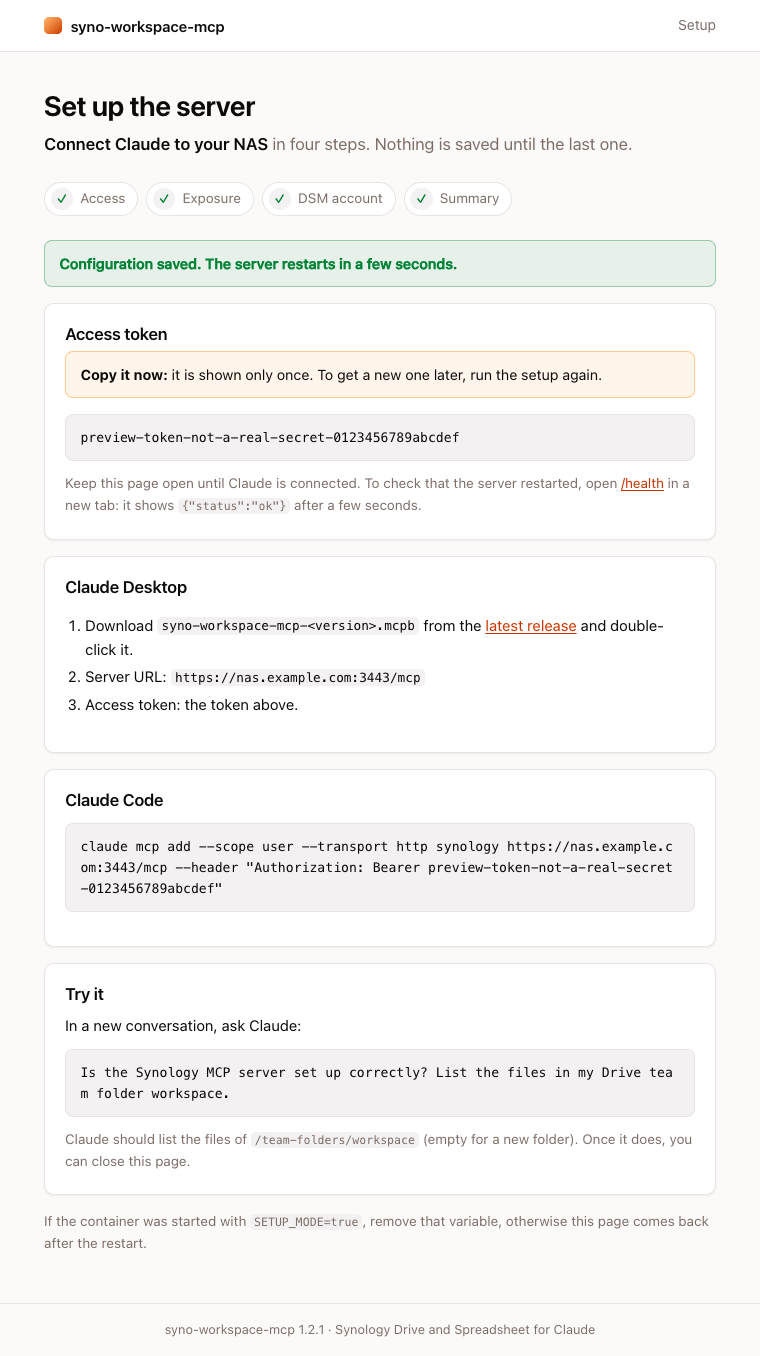
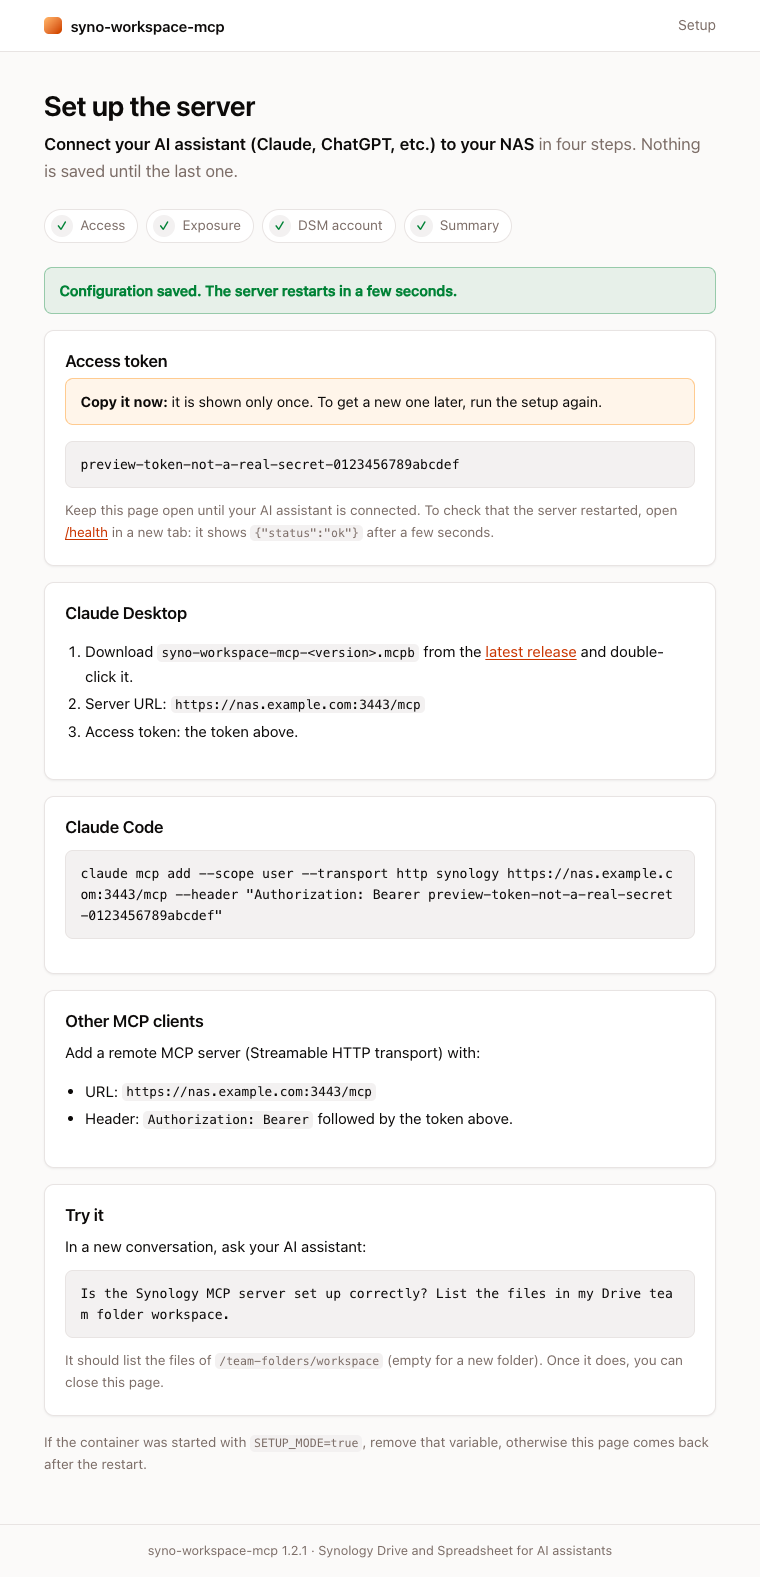
Make setup page and docs client-neutral
Refer to "your AI assistant" instead of Claude wherever the text does not
depend on the client, add "Other MCP clients" instructions (URL and bearer
header) to the setup page, the Container Manager guide and the README, and
use "workspace" as the default team folder. Keep the Claude Desktop and
Claude Code sections as they are, and refresh the setup screenshots.

diff --git a/src/syno_workspace_mcp/setup/templates/done.html b/src/syno_workspace_mcp/setup/templates/done.html
@@ -12,7 +12,7 @@ this page is no longer available.</p></div>
   <div class="alert alert-warning"><p><b>Copy it now:</b> it is shown only once. To get a new one later,
   run the setup again.</p></div>
   <pre>{{ token }}</pre>
-  <p class="hint">Keep this page open until Claude is connected. To check that the server
+  <p class="hint">Keep this page open until your AI assistant is connected. To check that the server
   restarted, open <a href="/health" target="_blank" rel="noopener">/health</a> in a new tab:
   it shows <code>{"status":"ok"}</code> after a few seconds.</p>
 </section>
@@ -33,15 +33,24 @@ this page is no longer available.</p></div>
 </section>
 
 <section class="card">
+  <h2>Other MCP clients</h2>
+  <p>Add a remote MCP server (Streamable HTTP transport) with:</p>
+  <ul>
+    <li>URL: <code>{{ mcp_url }}</code></li>
+    <li>Header: <code>Authorization: Bearer</code> followed by the token above.</li>
+  </ul>
+</section>
+
+<section class="card">
   <h2>Try it</h2>
-  <p>In a new conversation, ask Claude:</p>
+  <p>In a new conversation, ask your AI assistant:</p>
   {% if team_folders %}
   <pre>Is the Synology MCP server set up correctly? List the files in my Drive team folder {{ team_folders[0] }}.</pre>
-  <p class="hint">Claude should list the files of <code>/team-folders/{{ team_folders[0] }}</code>
+  <p class="hint">It should list the files of <code>/team-folders/{{ team_folders[0] }}</code>
   (empty for a new folder). Once it does, you can close this page.</p>
   {% else %}
   <pre>Is the Synology MCP server set up correctly? List my Drive team folders.</pre>
-  <p class="hint">Claude should list the team folders the account can open. Once it does,
+  <p class="hint">It should list the team folders the account can open. Once it does,
   you can close this page.</p>
   {% endif %}
 </section>

diff --git a/src/syno_workspace_mcp/setup/templates/exposure.html b/src/syno_workspace_mcp/setup/templates/exposure.html
@@ -3,13 +3,13 @@
 {% block content %}
 <form method="post" action="/setup/exposure" class="card exposure">
   <input type="hidden" name="csrf" value="{{ state.csrf }}">
-  <h2>How will Claude reach this server?</h2>
+  <h2>How will your AI assistant reach this server?</h2>
   <fieldset>
     <legend class="sr-only">Exposure</legend>
     <div class="choices">
       <label class="choice"><input type="radio" name="mode" value="local" checked>
         <span><span class="choice-title">Local network and VPN <span class="badge">Recommended</span></span>
-        <span class="choice-text">Claude connects from your network, or through your VPN.</span></span></label>
+        <span class="choice-text">Your AI assistant connects from your network, or through your VPN.</span></span></label>
       <label class="choice"><input type="radio" name="mode" value="public">
         <span><span class="choice-title">Public address on the Internet</span>
         <span class="choice-text">Only if you cannot use a VPN.</span></span></label>
@@ -17,7 +17,7 @@
   </fieldset>
 
   <div class="field">
-    <label for="mcp_url">Server address for Claude</label>
+    <label for="mcp_url">Server address for your AI assistant</label>
     <input type="url" id="mcp_url" name="mcp_url" value="{{ suggested_url }}" required>
     <p class="hint">The address of this page, ending with <code>/mcp</code> instead of
     <code>/setup</code>. It must use the reverse proxy rule and certificate you set up.</p>

diff --git a/src/syno_workspace_mcp/setup/templates/dsm.html b/src/syno_workspace_mcp/setup/templates/dsm.html
@@ -30,7 +30,7 @@
     <b>Disallow the user to change account password</b>, and leave every other page as is.</li>
   </ol>
   <p class="hint">This page then uses an administrator account once to create the folder
-  Claude will work in (if needed), give the new account read/write access to it, allow
+  your AI assistant will work in (if needed), give the new account read/write access to it, allow
   Synology Drive, and test the login. The administrator credentials are not stored.</p>
 
   {% include "_dsm_fields.html" %}
@@ -40,7 +40,7 @@
   </div>
 
   <fieldset>
-    <legend>Folder Claude will work in</legend>
+    <legend>Folder your AI assistant will work in</legend>
     <div class="choices">
       <div class="choice-group">
         <label class="choice"><input type="radio" name="folder_mode" value="new" checked>
@@ -49,7 +49,7 @@
           Synology Drive team folder. If it already exists, it is reused.</span></span></label>
         <div class="field choice-body new-only">
           <label for="new_folder">Folder name</label>
-          <input type="text" id="new_folder" name="new_folder" value="{{ (preparation.new_folder if preparation else none) or 'claude' }}" maxlength="32">
+          <input type="text" id="new_folder" name="new_folder" value="{{ (preparation.new_folder if preparation else none) or 'workspace' }}" maxlength="32">
         </div>
       </div>
       <label class="choice"><input type="radio" name="folder_mode" value="existing">

diff --git a/src/syno_workspace_mcp/setup/templates/summary.html b/src/syno_workspace_mcp/setup/templates/summary.html
@@ -6,11 +6,11 @@
   <h2>Review</h2>
   <dl class="kv">
     <dt>Exposure</dt><dd>{{ "Public address" if state.exposure == "public" else "Local network and VPN" }}</dd>
-    <dt>Address for Claude</dt><dd>{{ state.mcp_url }}</dd>
+    <dt>Address for your AI assistant</dt><dd>{{ state.mcp_url }}</dd>
     <dt>DSM</dt><dd>{{ state.dsm_url }}{% if not state.verify_tls %} (certificate not checked){% endif %}</dd>
     <dt>DSM account</dt><dd>{{ state.username }}</dd>
   </dl>
-  <p class="hint"><b>Save</b> generates the access token for Claude, shows it once, writes the
+  <p class="hint"><b>Save</b> generates the access token for your AI assistant, shows it once, writes the
   configuration and restarts the server.</p>
   <form method="post" action="/setup/finish">
     <input type="hidden" name="csrf" value="{{ state.csrf }}">

diff --git a/src/syno_workspace_mcp/setup/templates/base.html b/src/syno_workspace_mcp/setup/templates/base.html
@@ -4,6 +4,6 @@
 {% block section %}Setup{% endblock %}
 {% block heading %}
 <h1>Set up the server</h1>
-<p class="lead"><b>Connect Claude to your NAS</b> in four steps. Nothing is saved until the last one.</p>
+<p class="lead"><b>Connect your AI assistant (Claude, ChatGPT, etc.) to your NAS</b> in four steps. Nothing is saved until the last one.</p>
 {% endblock %}
 {% block steps %}{% if step is defined %}{{ steps(["Access", "Exposure", "DSM account", "Summary"], step) }}{% endif %}{% endblock %}

diff --git a/src/syno_workspace_mcp/web/templates/layout.html b/src/syno_workspace_mcp/web/templates/layout.html
@@ -22,6 +22,6 @@
   {% if error %}<div class="alert alert-error" role="alert">{{ error }}</div>{% endif %}
   {% block content %}{% endblock %}
 </main>
-<footer class="footer">syno-workspace-mcp {{ version }} · Synology Drive and Spreadsheet for Claude</footer>
+<footer class="footer">syno-workspace-mcp {{ version }} · Synology Drive and Spreadsheet for AI assistants</footer>
 </body>
 </html>

diff --git a/tests/test_setup.py b/tests/test_setup.py
@@ -331,7 +331,7 @@ def test_existing_account_then_save(
 
     token = re.search(r"<pre>([A-Za-z0-9_-]{40,})</pre>", done.text)
     assert token
-    # Option B does not know the team folders: Claude is asked to list them.
+    # Option B does not know the team folders: the assistant is asked to list them.
     assert "List my Drive team folders." in done.text
     saved = persisted.load(tmp_path)
     assert saved["mcp_auth_token"] == token[1]
@@ -357,7 +357,7 @@ def prepare_form(csrf: str, **overrides: str) -> dict[str, str]:
         "csrf": csrf,
         "password": TEST_PASSWORD,
         "folder_mode": "new",
-        "new_folder": "claude",
+        "new_folder": "workspace",
         "team_folders": "",
         "admin_username": "admin",
         "admin_password": ADMIN_PASSWORD,
@@ -386,7 +386,7 @@ def test_prepare_folder_and_account(page: TestClient, fake_dsm: FakeDsm, tmp_pat
     calls = dict(dsm.calls)
     assert json.loads(calls["SYNO.Core.Share.create"]["shareinfo"])["vol_path"] == "/volume1"
     permissions = json.loads(calls["SYNO.Core.Share.Permission.set_by_user_group"]["permissions"])
-    assert [p["name"] for p in permissions] == ["claude", "labs"]
+    assert [p["name"] for p in permissions] == ["workspace", "labs"]
     assert all(p["is_writable"] and not p["is_deny"] for p in permissions)
     rule = json.loads(calls["SYNO.Core.AppPriv.Rule.set"]["rules"])[0]
     assert rule["app_id"] == "SYNO.SDS.Drive.Application"
@@ -399,7 +399,7 @@ def test_prepare_folder_and_account(page: TestClient, fake_dsm: FakeDsm, tmp_pat
     assert len(fake_dsm.logouts) == 2
 
     done = page.post("/setup/finish", data={"csrf": csrf})
-    assert "List the files in my Drive team folder claude." in done.text
+    assert "List the files in my Drive team folder workspace." in done.text
     saved = persisted.load(tmp_path)
     assert saved["syno_username"] == "mcp_service"
     assert saved["syno_password"] == TEST_PASSWORD

diff --git a/src/syno_workspace_mcp/setup/app.py b/src/syno_workspace_mcp/setup/app.py
@@ -1,9 +1,9 @@
 """The /setup page: a 4-step wizard served when the server has no configuration.
 
-Steps: unlock with the code printed in the log, choose how Claude reaches the
-server, connect (or create) the DSM account, then save. Saving writes `DATA_DIR`
-and stops the process; Docker's restart policy starts it again with the new
-configuration, and /setup is no longer served.
+Steps: unlock with the code printed in the log, choose how the AI assistant
+reaches the server, connect (or create) the DSM account, then save. Saving
+writes `DATA_DIR` and stops the process; Docker's restart policy starts it again
+with the new configuration, and /setup is no longer served.
 
 FastMCP's auth does not cover custom routes and the allowed host names are not
 known yet, so the page protects itself: setup code, one session cookie, a CSRF
@@ -311,7 +311,7 @@ def create_setup_app(
             return plain(403, "Invalid form token: reload the page.")
         mode = form.get("mode")
         if mode not in {"local", "public"}:
-            ctx.state.error = "Choose how Claude will reach the server."
+            ctx.state.error = "Choose how your AI assistant will reach the server."
             return back_to_setup()
         if mode == "public" and form.get("public_ack") != "yes":
             ctx.state.error = "Tick every prerequisite before using a public address."

diff --git a/docs/install-container-manager.md b/docs/install-container-manager.md
@@ -1,7 +1,8 @@
 # Install with Container Manager (no SSH)
 
 This guide installs syno-workspace-mcp on a Synology NAS using only the DSM web
-interface, then connects Claude Desktop. Allow about 20 minutes.
+interface, then connects your AI assistant (Claude, ChatGPT, etc.). Allow about
+20 minutes.
 
 For a command-line install over SSH, see the [README](../README.md#install-on-a-synology-nas).
 
@@ -14,7 +15,7 @@ You need:
   **Synology Office** (Office is only needed for spreadsheets).
 - An HTTPS address for your NAS with a valid certificate, for example
   `nas.example.com` with a Let's Encrypt certificate
-  (*Control Panel → Security → Certificate*). Claude will connect to it.
+  (*Control Panel → Security → Certificate*). Your AI assistant will connect to it.
 - A way to generate a random password: a password manager, or the *Passwords*
   app on a Mac (see step 3).
 
@@ -115,7 +116,7 @@ stays valid until setup is done; a restart of the container prints a new one.
 ## 6. Add a reverse proxy rule
 
 The server only listens inside the NAS. DSM's reverse proxy publishes it over
-HTTPS, for the setup page now and for Claude afterwards.
+HTTPS, for the setup page now and for your AI assistant afterwards.
 
 1. Open *Control Panel → Login Portal → Advanced → Reverse Proxy* and click
    **Create**.
@@ -126,8 +127,8 @@ HTTPS, for the setup page now and for Claude afterwards.
 
    <img src="images/proxy-general.png" alt="Reverse Proxy Rules, General tab: HTTPS nas.example.com 3443 to HTTP localhost 3100" width="600">
 5. **Advanced Settings**: set **Proxy connection timeout**, **Proxy send
-   timeout** and **Proxy read timeout** to `3600` (Claude keeps a connection
-   open), and **Proxy HTTP version** to `HTTP 1.1`.
+   timeout** and **Proxy read timeout** to `3600` (MCP clients keep a
+   connection open), and **Proxy HTTP version** to `HTTP 1.1`.
 
    <img src="images/proxy-advanced.png" alt="Reverse Proxy Rules, Advanced Settings tab: timeouts 3600, HTTP 1.1" width="600">
 
@@ -145,8 +146,8 @@ port), then follow the four steps.
 
    <img src="images/setup-unlock.png" alt="Setup page, step 1: setup code field" width="480">
 2. **Exposure**: keep **Local network and VPN**. The suggested server address
-   (`https://nas.example.com:3443/mcp`) is the one Claude will use: change it
-   only if Claude reaches the NAS under another name.
+   (`https://nas.example.com:3443/mcp`) is the one your AI assistant will use:
+   change it only if it reaches the NAS under another name.
 
    <img src="images/setup-exposure.png" alt="Setup page, step 2: Local network and VPN selected, server address" width="480">
 3. **DSM account**: *Option A* starts by recalling how to create the account
@@ -156,7 +157,8 @@ port), then follow the four steps.
      port, for example `https://nas.example.com:5001`.
    - **Account name** and **Password of this account**: `mcp_service` and the
      password from step 1.
-   - **Folder Claude will work in**: a new team folder (`claude` by default),
+   - **Folder your AI assistant will work in**: a new team folder (`workspace`
+     by default),
      or the names of existing Drive team folders, for example `labs`.
    - **Administrator account**, its password, and its two-factor code if it
      uses one.
@@ -171,11 +173,12 @@ port), then follow the four steps.
 
    <img src="images/setup-dsm.png" alt="Setup page, step 3: Option A form and Option B" width="480">
 4. **Summary**: click **Save**. The page shows the **access token** once, with
-   the settings for Claude Desktop and Claude Code: copy it now.
+   the settings for Claude Desktop, Claude Code and other MCP clients: copy it
+   now.
 
    <img src="images/setup-summary.png" alt="Setup page, step 4: summary before saving" width="480">
 
-   <img src="images/setup-done.png" alt="Setup page after saving: access token, Claude Desktop and Claude Code settings, Try it prompt" width="480">
+   <img src="images/setup-done.png" alt="Setup page after saving: access token, client settings, Try it prompt" width="480">
 
 The server then restarts with its configuration; `/setup` is no longer served
 (`404`).
@@ -199,7 +202,7 @@ mode).
 If the container stops and its log starts with `Invalid configuration:`, the
 next lines name each wrong value.
 
-## 9. Connect Claude
+## 9. Connect your AI assistant
 
 Use the server address and the access token shown at the end of step 7.
 
@@ -207,20 +210,23 @@ Use the server address and the access token shown at the end of step 7.
   [Claude Desktop extension](../README.md#claude-desktop-extension).
 - **Claude Code**: copy the `claude mcp add` command shown by the setup page, or
   see [Connect a client](../README.md#connect-a-client).
+- **Other MCP clients**: add a remote MCP server (Streamable HTTP) with the
+  server address and the header `Authorization: Bearer <access token>`, see
+  [Other MCP clients](../README.md#other-mcp-clients).
 
 ## 10. Try it
 
-Start a new conversation in Claude and paste the prompt shown at the end of the
+Start a new conversation in your AI assistant and paste the prompt shown at the end of the
 setup page, for example:
 
 > Is the Synology MCP server set up correctly? List the files in my Drive team
-> folder claude.
+> folder workspace.
 
-Claude should call `drive_list_files` (Claude Desktop may ask you to allow the
-tool first) and show the content of the team folder chosen in step 7 (empty for
+It should call `drive_list_files` (it may ask you to allow the tool first) and show the content of the team folder chosen in step 7 (empty for
 a new folder). You can also ask it to list your Drive team folders. If it
-says it has no Synology tools, check that the extension is enabled, or that
-`claude mcp list` shows the server as connected. Once this works, you can close
+says it has no Synology tools, check that the server is enabled in its
+settings (in Claude Desktop, the extension; in Claude Code, `claude mcp list`
+shows it as connected). Once this works, you can close
 the setup page: the installation is done.
 
 ## Run the setup again
@@ -232,14 +238,15 @@ change the address:
    Configurations*, and remove the `#` in front of `SETUP_MODE: "true"`.
 2. Save. Container Manager offers to rebuild the project: accept (**Build**),
    then click **Start** if the project does not start by itself.
-3. Take the new setup code from the log (step 5) and run step 7 again. Claude
-   cannot use the server meanwhile.
+3. Take the new setup code from the log (step 5) and run step 7 again. Your AI
+   assistant cannot use the server meanwhile.
 4. Put the `#` back in front of `SETUP_MODE`, save and rebuild. Otherwise the
    setup page comes back at each restart.
 5. Give the new token to every client: in Claude Desktop, update the
    extension's settings; in Claude Code, run
    `claude mcp remove synology --scope user` before the new `claude mcp add`
-   command (it refuses to add a server that already exists).
+   command (it refuses to add a server that already exists); in other
+   clients, replace the token in the `Authorization` header.
 
 Saving the YAML alone does not apply a change: the containers keep running with
 the old values until the project is rebuilt.
@@ -267,8 +274,8 @@ YAML) keeps working: values in the YAML take precedence over the setup page.
   would lock out administrators too.
 - Anyone with the access token can read, change and delete files the
   `mcp_service` account can reach. If it leaks, run the setup again and update
-  the token in Claude.
+  the token in your AI assistant.
 - While in setup mode, the setup page is protected by the setup code, which
   only appears in the container log: run the setup soon after starting it.
-- Tools that overwrite, rename or delete do nothing unless Claude calls them
-  with `confirm: true`.
+- Tools that overwrite, rename or delete do nothing unless your AI assistant
+  calls them with `confirm: true`.

diff --git a/README.md b/README.md
@@ -90,6 +90,13 @@ stdio bridge (requires [uv](https://docs.astral.sh/uv/)). In
 
 If DSM uses a certificate from a private CA, add `"--verify", "/path/to/ca.pem"`.
 
+### Other MCP clients
+
+Any client that supports remote MCP servers over Streamable HTTP with a custom
+header can connect: URL `https://<host>:<port>/mcp`, header
+`Authorization: Bearer <MCP_AUTH_TOKEN>`. Clients that only accept OAuth for
+remote servers cannot use the static token.
+
 ## Spreadsheet tools
 
 Spreadsheet tools go through the `synology/spreadsheet-api` container (started by
@@ -145,8 +152,8 @@ npm run pack   # dist/syno-workspace-mcp-<version>.mcpb, production deps only
 
 The server and the extension send nothing to third parties. The extension only
 talks to the server URL you enter; the server only talks to your own DSM and to
-the Spreadsheet container on the NAS. Files and spreadsheet contents go to Claude
-only when a tool returns them.
+the Spreadsheet container on the NAS. Files and spreadsheet contents go to your AI
+assistant only when a tool returns them.
 
 ## Releases
 
